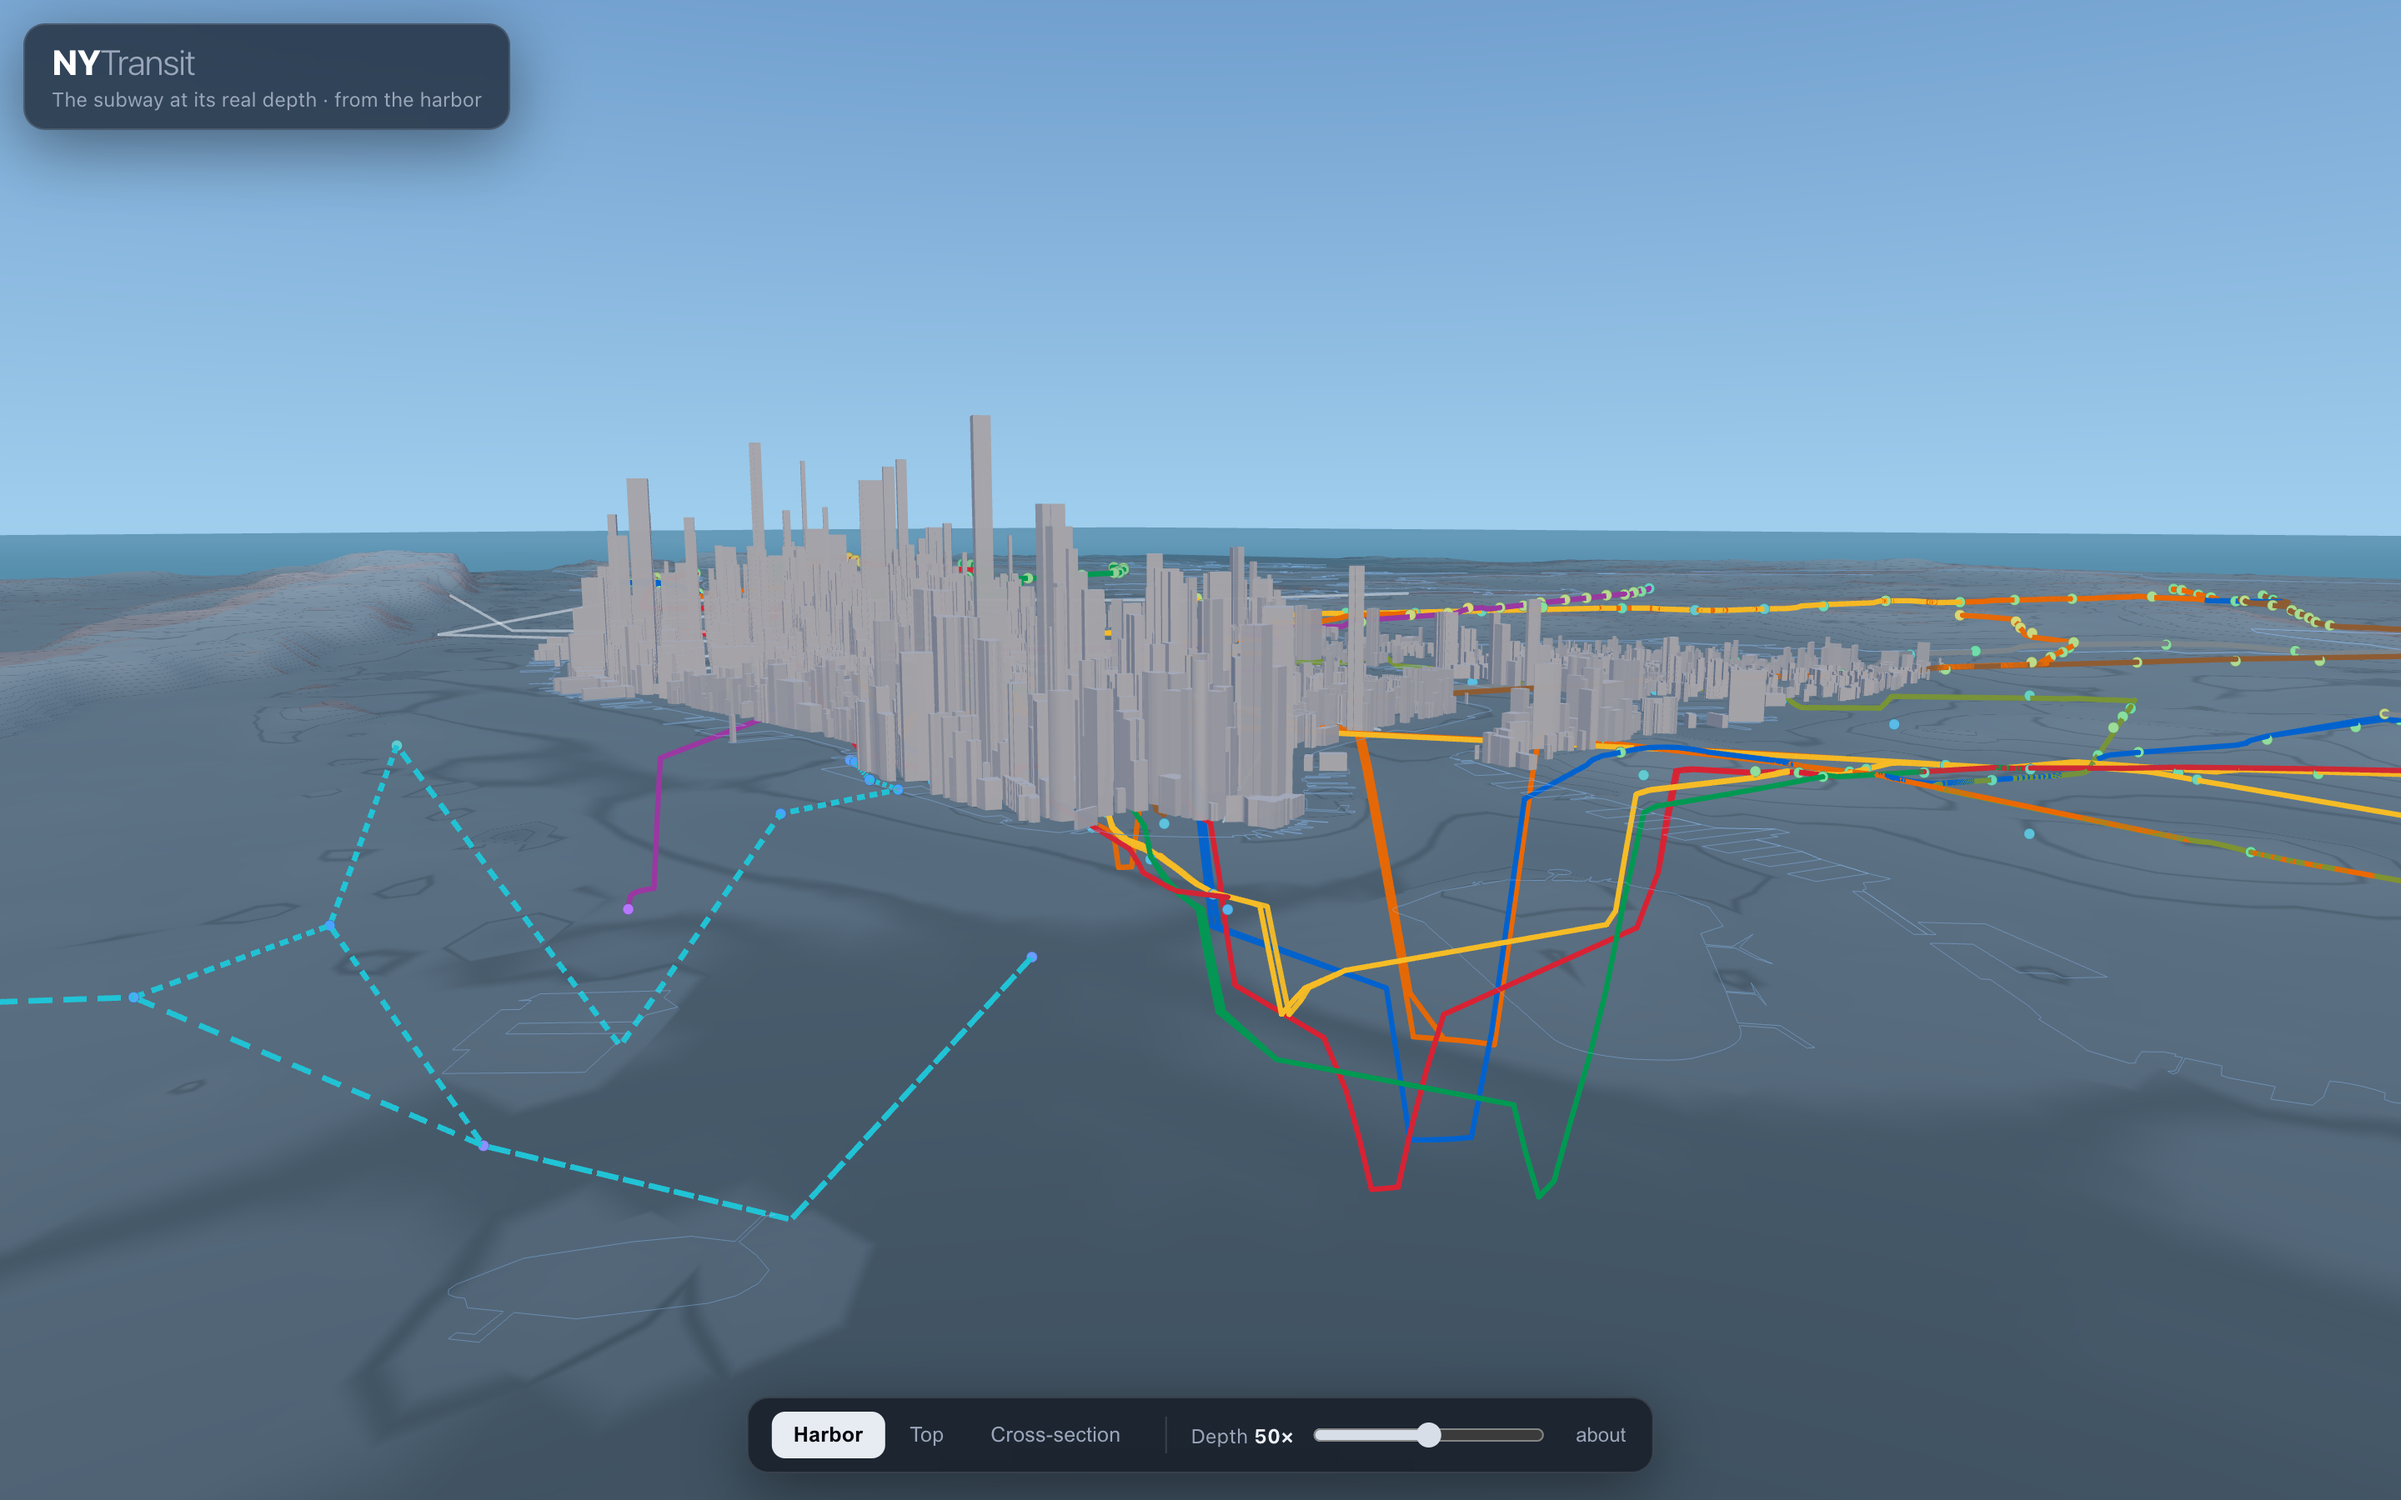
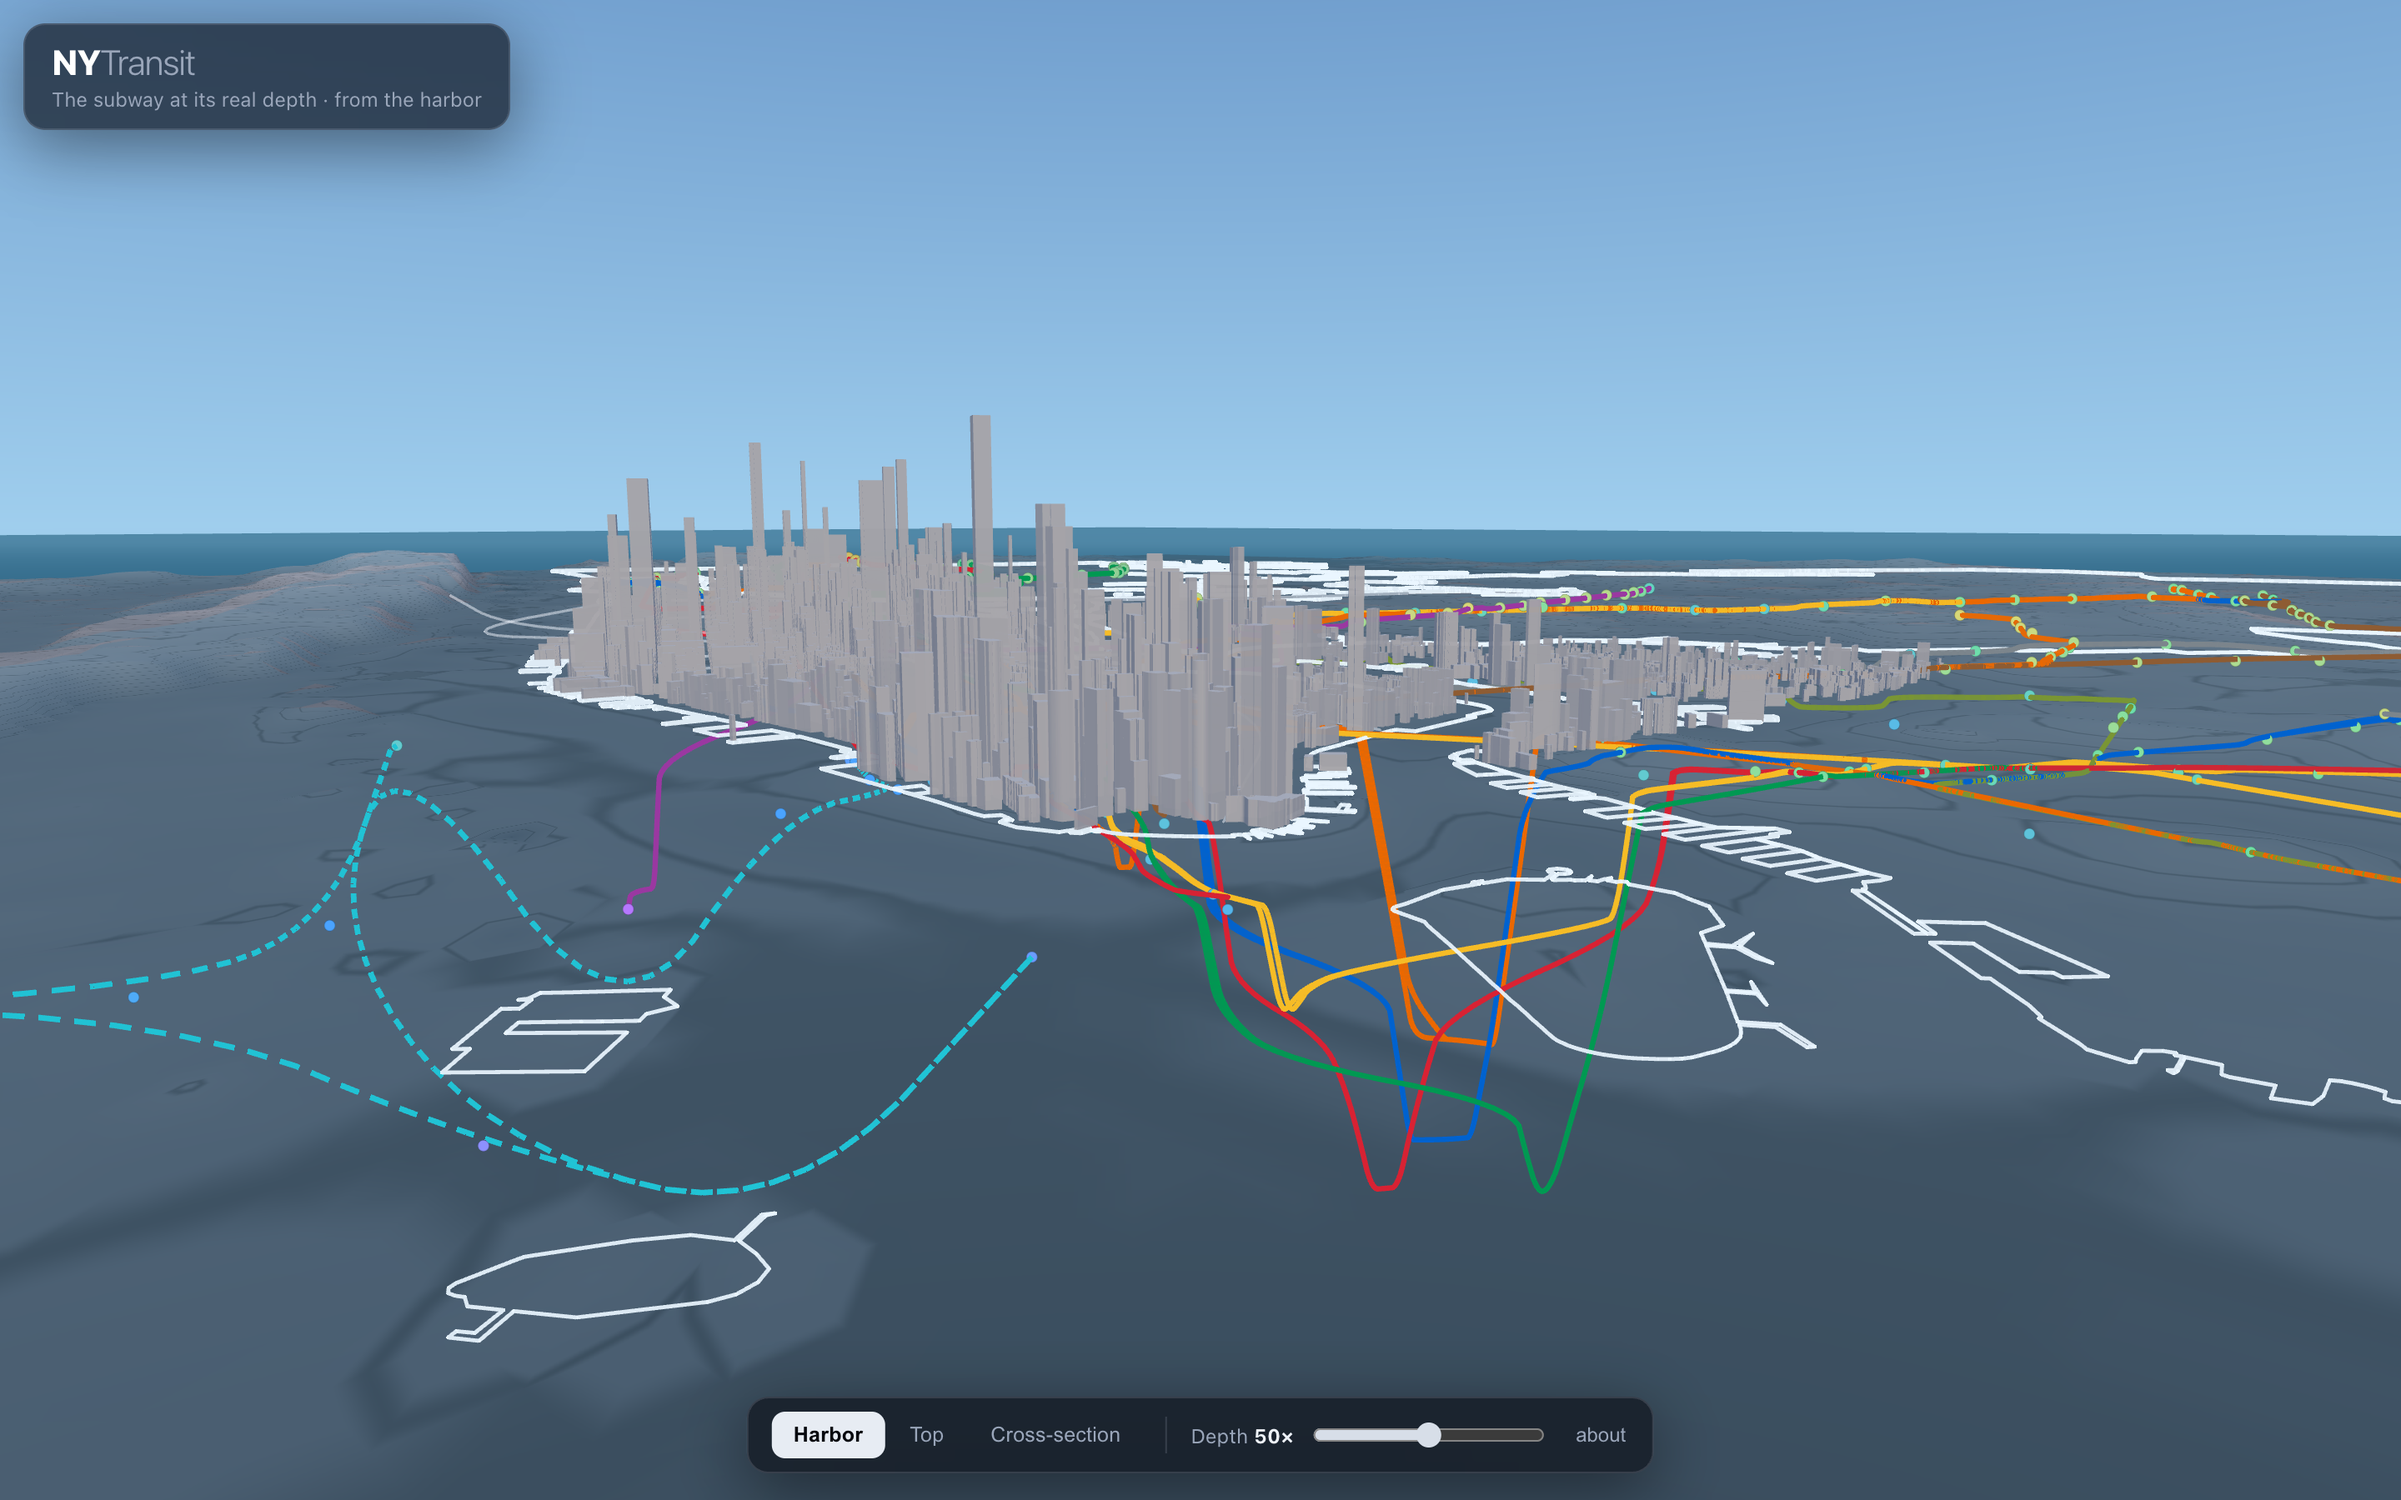
Distinct water/boroughs, cinematic intro fly, and smoothed lines
- Water is now a saturated blue with crisp bright shorelines per borough, so
  the rivers clearly separate the land and it's obvious where lines cross water.
- Intro camera flies in: starts high above the harbor and descends below the
  waterline onto the plunging tubes as the network finishes (skippable).
- Train lines smoothed with Chaikin corner-cutting — no more hard, un-runnable
  corners in the exaggerated dips.

diff --git a/src/main.js b/src/main.js
@@ -79,6 +79,9 @@ let META = null, stationData = [], stationsPts = null, stationReveal = null;
 const uTime = { value: 0 };
 let animStart = null;
 let introEls = null, lastYear = -1, lastPhase = '';
+// intro camera fly: high above ground -> down below the waterline as lines finish
+const introCam = { active: true, a0: new THREE.Vector3(), a1: new THREE.Vector3(), b0: new THREE.Vector3(), b1: new THREE.Vector3() };
+const _tmpT = new THREE.Vector3();
 
 // ===========================================================================
 async function boot() {
@@ -102,7 +105,7 @@ async function boot() {
   setupAbout(data.meta);
   setupUI();
   setupPicking();
-  frameStatue();
+  setupIntroCam();
 
   document.getElementById('loader').classList.add('hide');
   animStart = performance.now();
@@ -112,7 +115,7 @@ async function boot() {
 // ---- water ----
 function buildWater() {
   const geo = new THREE.PlaneGeometry(180000, 180000);
-  const mat = new THREE.MeshStandardMaterial({ color: 0x1a7fa0, metalness: 0.25, roughness: 0.22, transparent: true, opacity: 0.5, depthWrite: false });
+  const mat = new THREE.MeshStandardMaterial({ color: 0x0e6f97, metalness: 0.35, roughness: 0.16, transparent: true, opacity: 0.68, depthWrite: false });
   const m = new THREE.Mesh(geo, mat);
   m.rotation.x = -Math.PI / 2;
   m.renderOrder = -3;
@@ -158,8 +161,16 @@ function buildTerrain(t) {
 function buildCoastline(boroughs) {
   const g = new THREE.Group();
   for (const b of boroughs) for (const ring of b.rings) {
-    const pts = ring.map(([x, z]) => new THREE.Vector3(x, 0.4, z));
-    g.add(new THREE.LineLoop(new THREE.BufferGeometry().setFromPoints(pts), new THREE.LineBasicMaterial({ color: 0x8fc4ff, transparent: true, opacity: 0.4 })));
+    if (ring.length < 2) continue;
+    const flat = [];
+    for (const [x, z] of ring) flat.push(x, 1.0, z);
+    flat.push(ring[0][0], 1.0, ring[0][1]); // close the loop
+    const geo = new LineGeometry();
+    geo.setPositions(flat);
+    const mat = new LineMaterial({ color: 0xeaf6ff, linewidth: 2.4, transparent: true, opacity: 0.92, worldUnits: false });
+    mat.resolution.copy(resolution);
+    lineMaterials.push(mat);
+    g.add(new Line2(geo, mat));
   }
   aboveGroup.add(g);
 }
@@ -182,13 +193,30 @@ function buildBuildings(list) {
   aboveGroup.add(new THREE.Mesh(merged, mat));
 }
 
+// Chaikin corner-cutting: rounds hard corners into smooth, runnable curves.
+function chaikin(pts, iters) {
+  let p = pts;
+  for (let k = 0; k < iters; k++) {
+    const out = [p[0]];
+    for (let i = 0; i < p.length - 1; i++) {
+      const a = p[i], b = p[i + 1];
+      out.push([a[0] * 0.75 + b[0] * 0.25, a[1] * 0.75 + b[1] * 0.25, a[2] * 0.75 + b[2] * 0.25]);
+      out.push([a[0] * 0.25 + b[0] * 0.75, a[1] * 0.25 + b[1] * 0.75, a[2] * 0.25 + b[2] * 0.75]);
+    }
+    out.push(p[p.length - 1]);
+    p = out;
+  }
+  return p;
+}
+
 // ---- lines (positions baked with the vy() transform) ----
 function bakePositions(raw) {
   const out = new Array(raw.length * 3);
   for (let i = 0; i < raw.length; i++) { out[i * 3] = raw[i][0]; out[i * 3 + 1] = vy(raw[i][1]); out[i * 3 + 2] = raw[i][2]; }
   return out;
 }
-function makeLine(raw, color, width, opacity, dashed, year) {
+function makeLine(rawIn, color, width, opacity, dashed, year) {
+  const raw = rawIn.length >= 3 ? chaikin(rawIn, 3) : rawIn; // smooth hard corners
   const geo = new LineGeometry();
   geo.setPositions(bakePositions(raw));
   const mat = new LineMaterial({ color: new THREE.Color(color).getHex(), linewidth: width, transparent: true, opacity, worldUnits: false, dashed: !!dashed, dashSize: 55, gapSize: 35 });
@@ -282,6 +310,33 @@ function frameCut() {
   controls.update();
   setActive('view-cut');
 }
+// Intro fly: begins high above the harbor, descends below the waterline as the
+// network finishes drawing, ending on the plunging under-river tubes.
+function setupIntroCam() {
+  const [sx, sz] = META.camera.statue;
+  const [tx, , tz] = META.camera.target;
+  introCam.a0.set(sx - 1600, 9200, sz + 5200);   // camera: high aerial
+  introCam.a1.set(tx, 500, tz);                    // look at the surface
+  introCam.b0.set(tx - 700, -520, tz + 3200);      // camera: below the waterline
+  introCam.b1.set(tx, 40, tz + 800);               // look up at the tubes / skyline
+  introCam.active = true;
+  camera.position.copy(introCam.a0);
+  camera.lookAt(introCam.a1);
+  controls.enabled = false;
+  setActive('view-harbor');
+}
+function finishIntro() {
+  if (animDone) return;
+  for (const d of depthLines) d.line.geometry.instanceCount = d.segs;
+  uTime.value = 1e6;
+  animDone = true;
+  introCam.active = false;
+  camera.position.copy(introCam.b0);
+  controls.target.copy(introCam.b1);
+  controls.enabled = true;
+  controls.update();
+  hideIntro();
+}
 
 function setupUI() {
   const ve = document.getElementById('ve');
@@ -368,16 +423,21 @@ function animate() {
       d.line.geometry.instanceCount = Math.ceil(p * d.segs);
     }
     updateIntro(t);
-    if (t > GROW_SPAN + GROW_DUR + 1.2) {
-      for (const d of depthLines) d.line.geometry.instanceCount = d.segs;
-      uTime.value = 1e6;
-      animDone = true;
-      hideIntro();
+    if (introCam.active) {
+      const p = Math.min(1, t / (GROW_SPAN + GROW_DUR));
+      const e = p * p * (3 - 2 * p); // smoothstep
+      camera.position.lerpVectors(introCam.a0, introCam.b0, e);
+      _tmpT.lerpVectors(introCam.a1, introCam.b1, e);
+      camera.lookAt(_tmpT);
     }
+    if (t > GROW_SPAN + GROW_DUR + 0.4) finishIntro();
   }
-  controls.update();
+  if (!introCam.active) controls.update(); // don't let OrbitControls fight the fly
   renderer.render(scene, camera);
 }
+// let the user skip the intro with any interaction
+['pointerdown', 'wheel', 'touchstart', 'keydown'].forEach((ev) =>
+  addEventListener(ev, () => { if (!animDone) finishIntro(); }, { passive: true }));
 addEventListener('resize', () => {
   camera.aspect = innerWidth / innerHeight;
   camera.updateProjectionMatrix();
